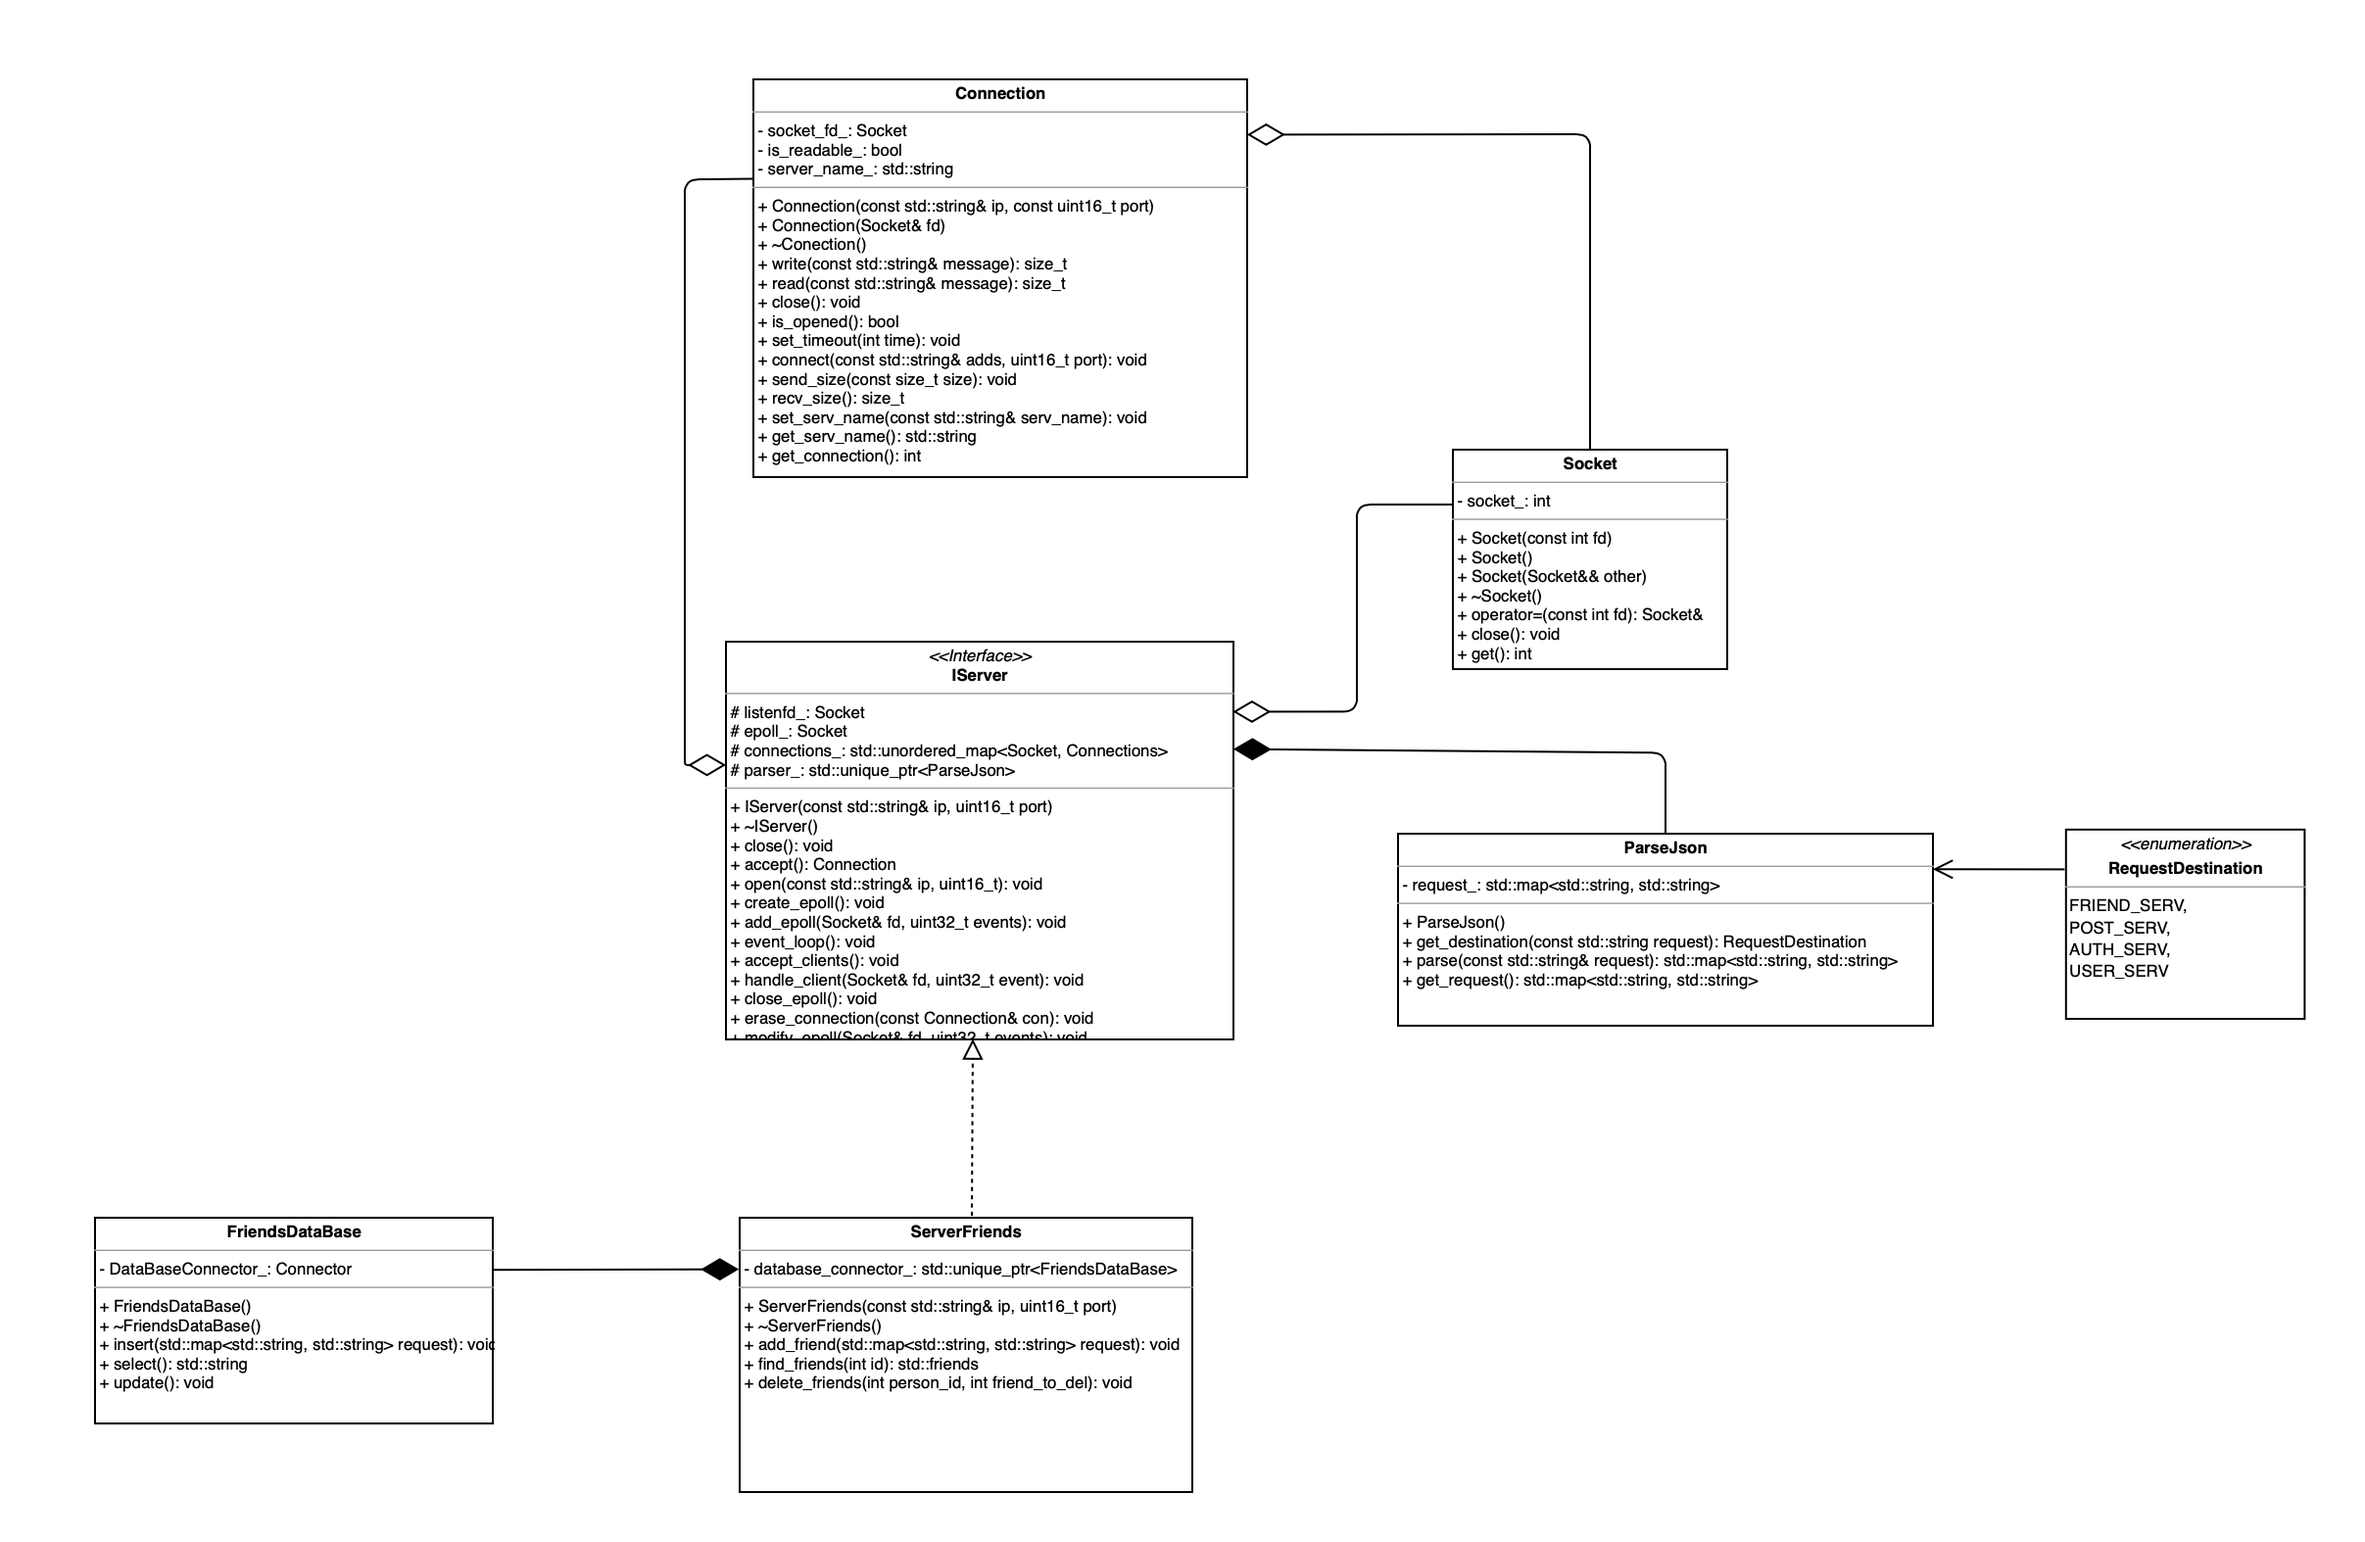
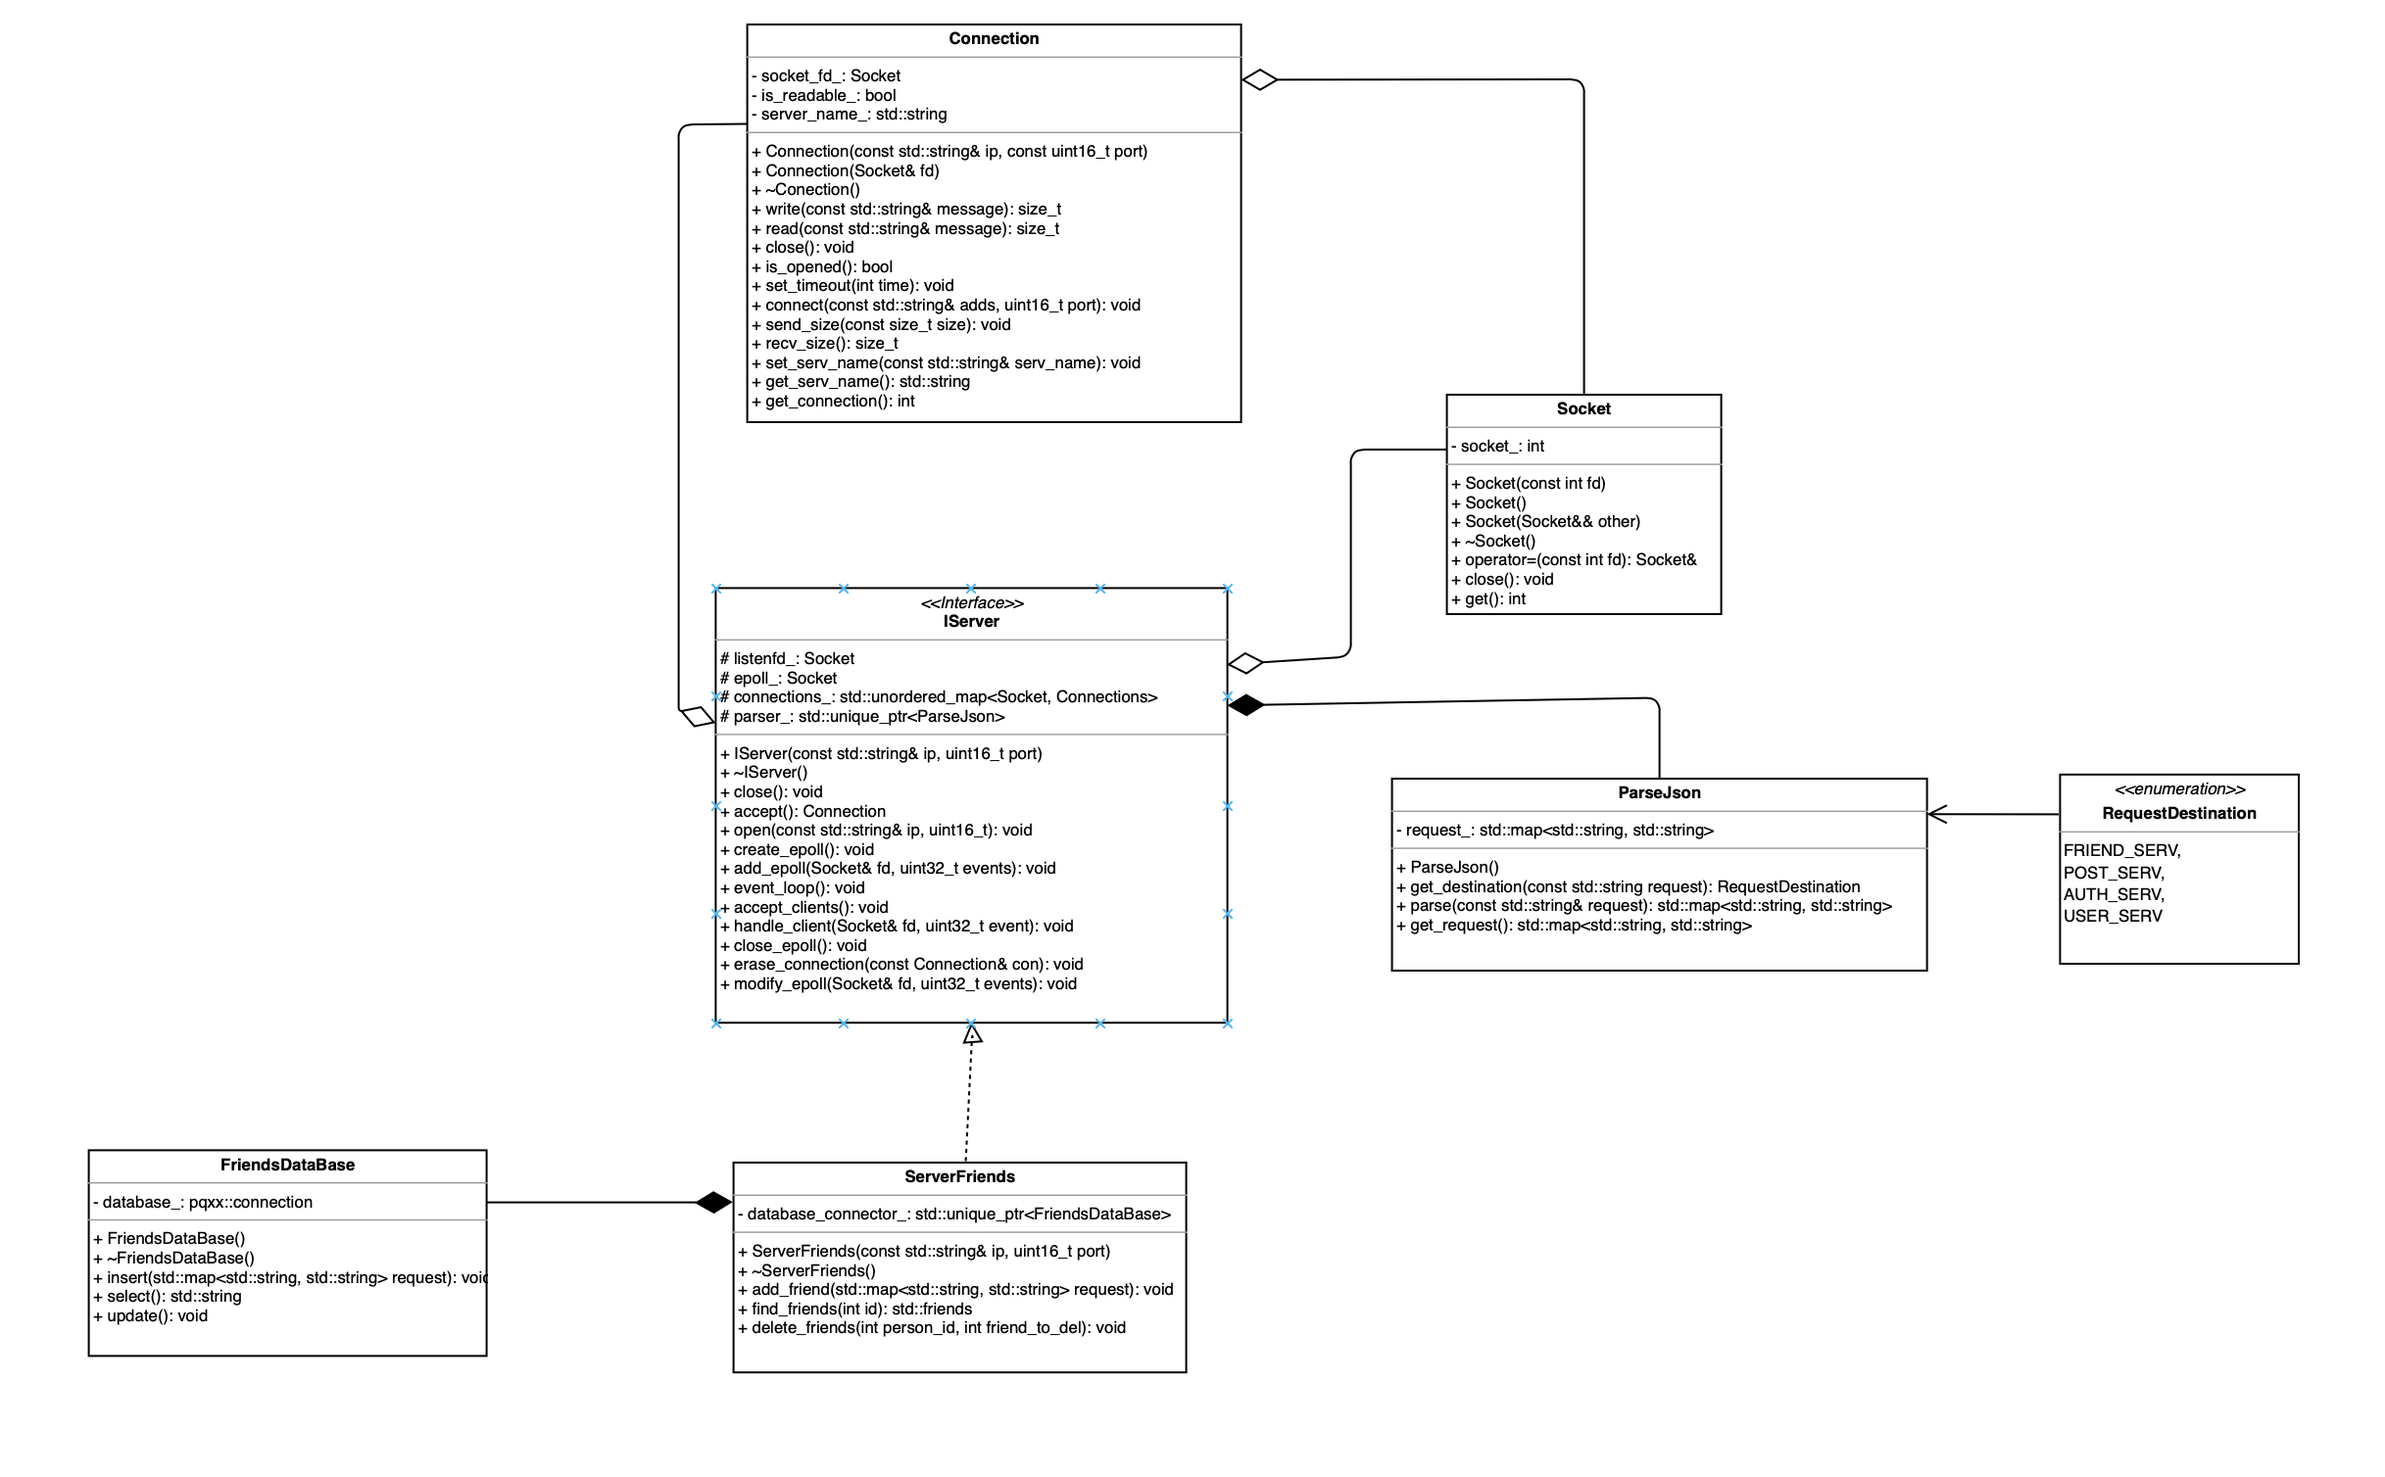
Еще несколько тестов на взаимодействие классов, изменена uml

diff --git a/server_friends/tests/tests.cpp b/server_friends/tests/tests.cpp
@@ -58,11 +58,24 @@ TEST(Databasetest, data_base) {
 
     EXPECT_CALL(dataBase, insert()).Times(1);
 
-    tcp_network::ServerFriends server;
+    MockServerFriends server;
 
     server.open("127.0.0.1", 1234);
     server.event_loop();
+
+    uint16_t port = 1234;
+    std::string ip = "127.0.0.1";
+    EXPECT_CALL(server, handle_client(testing::_,
+                                    testing::_)).Times(testing::AtLeast(1));
+    tcp_network::Connection con(ip, port);
+
+    std::string request = "1234230\ncreate/\n{'username': 'Filechka322','email':"
+                          "'UUU@gmail.com','password': 'qwerty'}";
+    con.send_size(sizeof(request));
+    con.write(request);
 }
+
+
 
 
 TEST(MockServerFriends, test_reading_from_client) {
@@ -109,9 +122,9 @@ TEST(Connection, test_connection_write) {
 
     echo_serv_for_connection(&serv_sock, &listen_sock);
 
-    uint16_t i = 1234;
+    uint16_t port = 1234;
     std::string ip = "127.0.0.1";
-    tcp_network::Connection connection(ip, i);
+    tcp_network::Connection connection(ip, port);
     connection.send_size(sizeof("hello"));
     connection.write("hello");
 
@@ -124,6 +137,28 @@ TEST(Connection, test_connection_write) {
     close(listen_sock);
     close(serv_sock);
     EXPECT_EQ(true, strcmp("hello", buf));
+}
+
+TEST(test_function_calling, ServerFrineds) {
+    ASSERT_TRUE(true);
+    uint16_t port = 1234;
+    std::string ip = "127.0.0.1";
+    MockServerFriends serv(ip, port);
+
+    EXPECT_CALL(serv, create_epoll()).Times(testing::AtLeast(1));
+    EXPECT_CALL(serv, add_epoll(testing::_,
+            testing::_)).Times(testing::AtLeast(1));
+
+    EXPECT_CALL(serv, handle_client(testing::_,
+                                    testing::_)).Times(testing::AtLeast(1));
+
+    serv.event_loop();
+
+    tcp_network::Connection con(ip, port);
+    con.send_size(sizeof("hello"));
+    con.write("hello");
+    con.close();
+    serv.close();
 }
 
 

diff --git a/server_friends/tests/mock_classes.h b/server_friends/tests/mock_classes.h
@@ -13,11 +13,6 @@
 #include "friends_data_base.h"
 #include "server_friends.h"
 
-
-
-//test
-
-
 class MockSocket : public FriendsDataBase {
 public:
     MockSocket() = default;
@@ -53,9 +48,8 @@ public:
 
 class MockConnection : public tcp_network::Connection {
 public:
-//    template <typename T, typename... Args>
-//    MockConnection(T fd, Args...);
-
+    MockConnection(std::string& ip, uint16_t port) :
+    tcp_network::Connection(ip, port) {}
     MOCK_METHOD1(write, size_t(const std::string& message));
     MOCK_METHOD1(read, size_t(const std::string& message));
     MOCK_METHOD0(close, void());

diff --git a/server_friends/include/connection.h b/server_friends/include/connection.h
@@ -17,17 +17,11 @@ namespace tcp_network {
 
         explicit Connection() = default;
 
-        template <typename... Args>
-        Connection(Args&&...);
-
         Connection(std::string& ip, uint16_t port);
+
         explicit Connection(const Socket& fd) {}
 
-        explicit Connection(Socket&& fd);
-
         Connection(Connection&& con) noexcept;
-
-        Connection(const Connection& con) = default;
 
         virtual ~Connection() noexcept;
 

diff --git a/server_friends/include/friends_data_base.h b/server_friends/include/friends_data_base.h
@@ -16,8 +16,6 @@ public:
 
     ~FriendsDataBase();
 
-//    FriendsDataBase& operator()(FriendsDataBase* other);
-
     // Добавить данные в таблице
     virtual void insert(std::map<std::string, std::string>& request) {}
 
@@ -29,7 +27,7 @@ public:
 
 private:
     // Table friends_;
-    pqxx::connection _db;
+    pqxx::connection database_;
 };
 
 #endif //NOSKOOL_FRIENDS_DATA_BASE_H

diff --git a/server_friends/src/friends_data_base.cpp b/server_friends/src/friends_data_base.cpp
@@ -10,14 +10,9 @@ FriendsDataBase::FriendsDataBase() {}
 
 FriendsDataBase::~FriendsDataBase() {}
 
+void insert(std::map<std::string, std::string>& request) { }
 
-void insert(std::map<std::string, std::string>& request) {
-
-}
-
-void select() {
-
-}
+void select() {}
 
 void update() {}
 

diff --git a/server_friends/src/connection.cpp b/server_friends/src/connection.cpp
@@ -8,12 +8,7 @@
 
 namespace tcp_network {
 
-    template <typename... Args>
-    Connection::Connection(Args&&...) {}
-
     Connection::~Connection() {}
-
-    Connection::Connection(Socket&& fd) {}
 
     Connection::Connection(Connection&& con) noexcept {}
 
